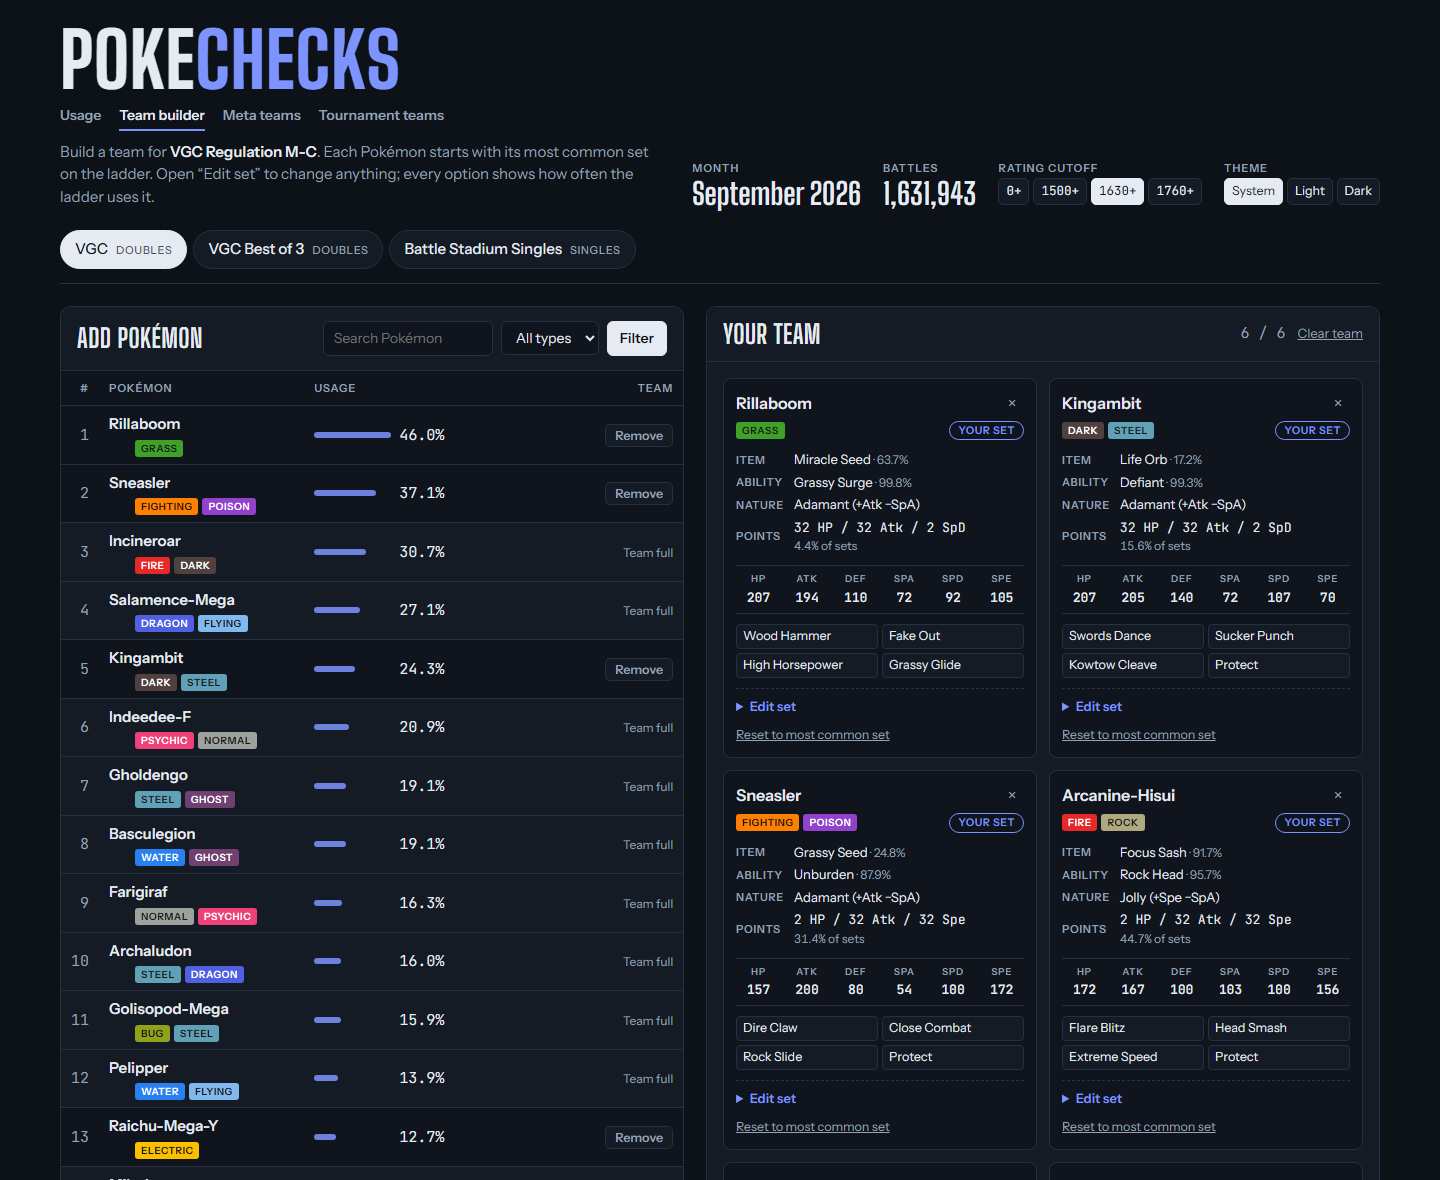
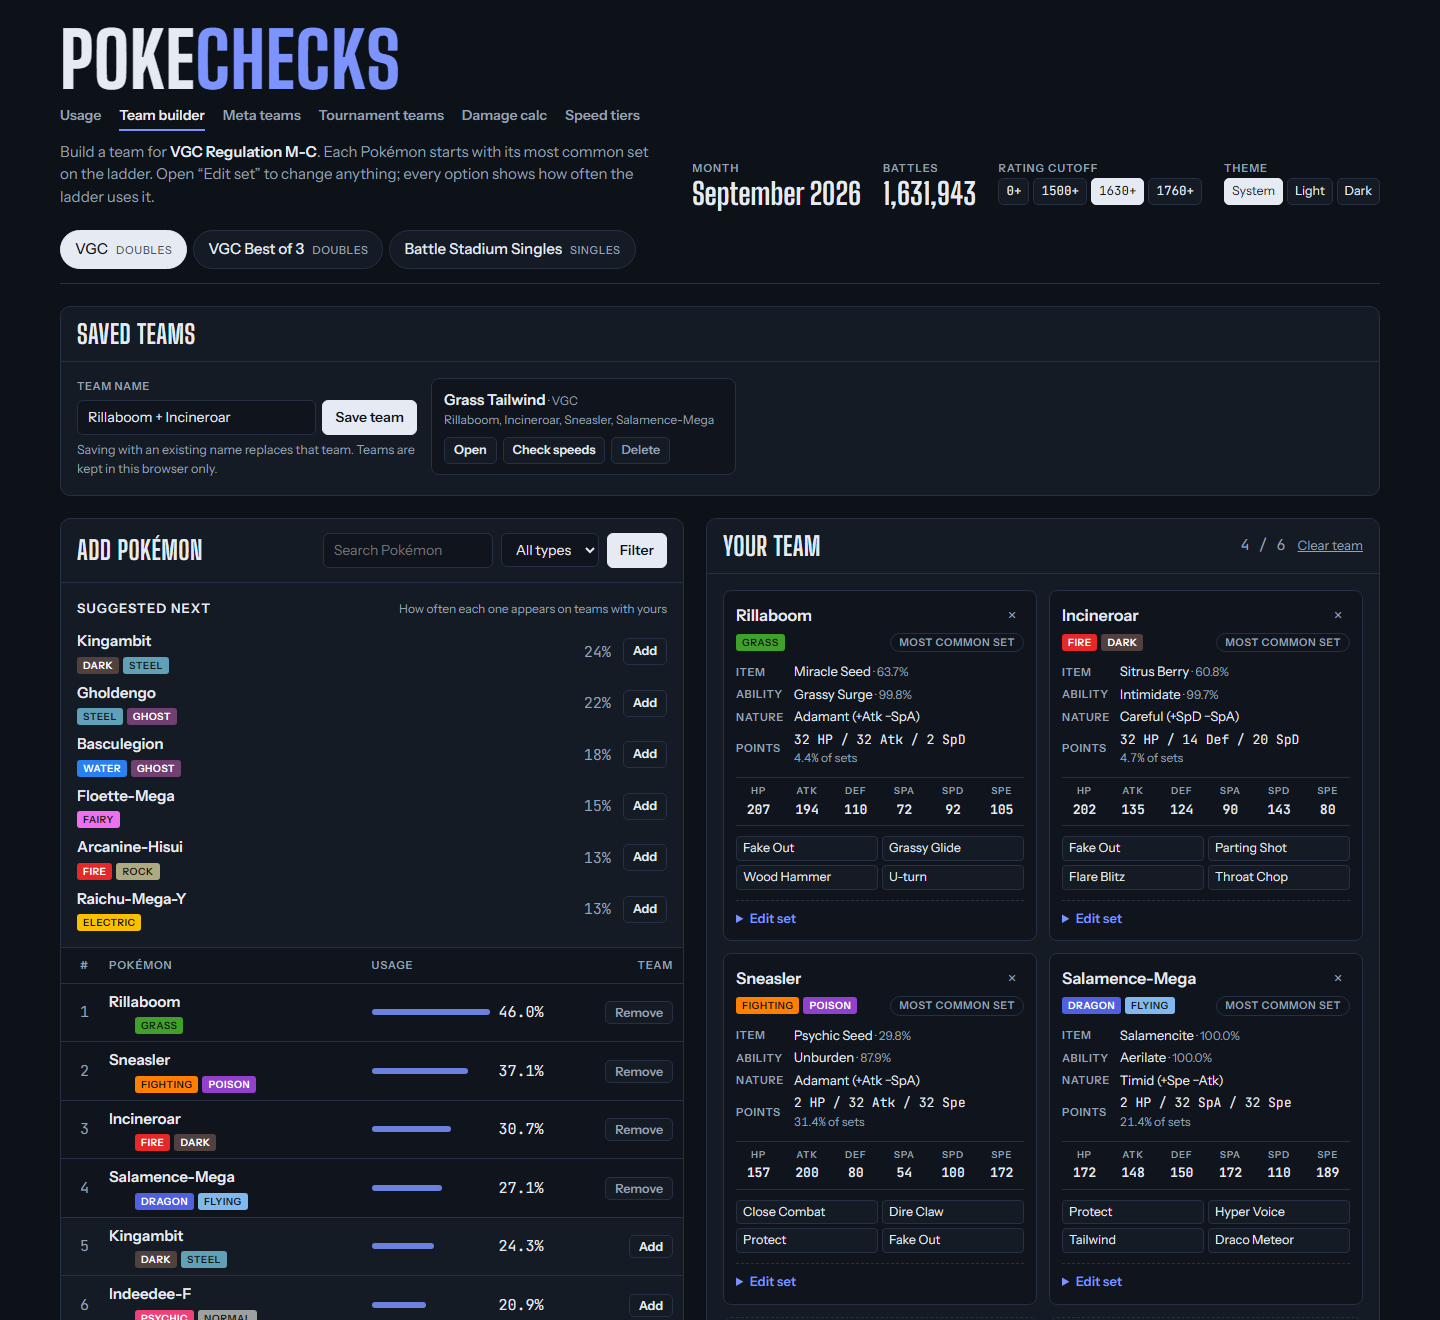
Update README screenshots with the new pages
Retake the usage, team builder and game plan screenshots with the new page links and saved teams panel, and add the damage calc and the speed tiers match view.

diff --git a/README.md b/README.md
@@ -48,9 +48,23 @@ The pages share one URL, so links keep the format, comparison and team:
   every three hours. Any team opens in the builder; team lists have no stat points, so the
   builder fills them in from the most common spread for each Pokémon and nature.
 
-![The team builder with Rillaboom, Incineroar, Salamence-Mega and Sneasler, showing their common sets, teammate suggestions and type matchups](docs/team-builder.png)
+## Screenshots
+
+**Usage**
 
 ![PokeChecks showing the VGC Regulation M-C usage ladder beside a base stat and set comparison of Rillaboom, Sneasler and Incineroar](docs/screenshot.png)
+
+**Team builder**, with a saved team
+
+![The team builder with a saved team at the top, and Rillaboom, Incineroar, Sneasler and Salamence-Mega on their most common sets with level 50 stats](docs/team-builder.png)
+
+**Damage calc**
+
+![The damage calculator showing Sneasler's Close Combat against a Chople Berry Kingambit: 194–230 damage, 93.7–111.1%, a 62.5% chance to OHKO, with Sneasler's other moves below](docs/damage-calc.png)
+
+**Speed tiers**, mid-match
+
+![The speed tiers match view: rain and Tailwind on your side, your four Pokémon and four opponents sorted into one turn order, with opponents' possible Speed ranges](docs/speed-tiers.png)
 
 ## Run
 
